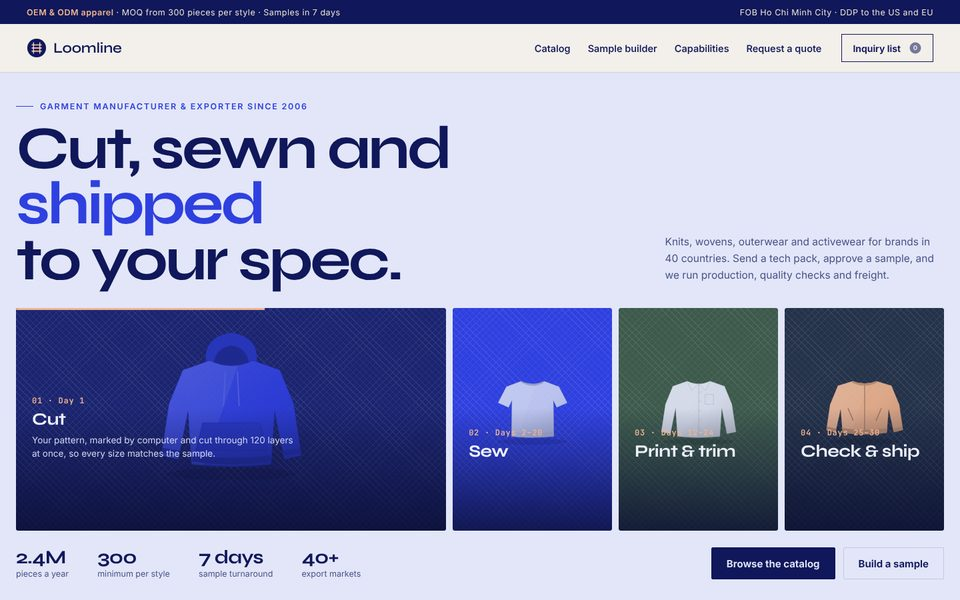
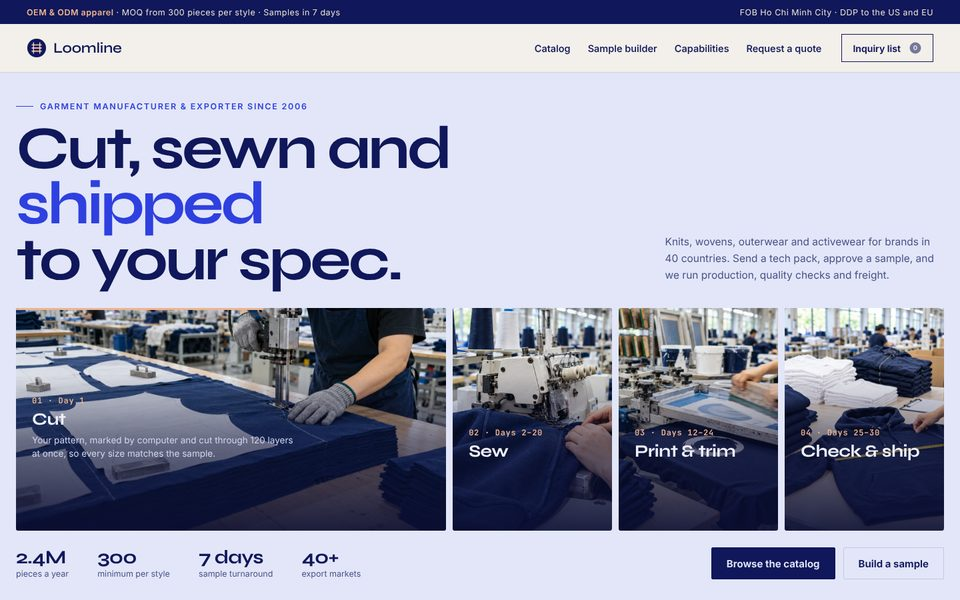
Add photography to the seven new demos
Ferro part and machine (material switch retints the part), Maison Sable hero and
product shots, Atlas ridge, Atelier Nord cover, Nocturne watch, Kiln bag (cut out,
with labels for the other blends), and the four Loomline factory steps.

Claude-Session: https://claude.ai/code/session_011fApqHYVLv6rXDiRbA3PWJ

Changed region(s): [[0.0, 0.51, 1.0, 0.9]]

diff --git a/public/pages/B2.html b/public/pages/B2.html
@@ -14,9 +14,9 @@ body{background:var(--bg);color:var(--ink);font-family:"Manrope V",Arial,sans-se
 .bar{background:var(--ink);color:var(--bg);text-align:center;font-size:11px;letter-spacing:.2em;text-transform:uppercase;padding:9px;position:relative;z-index:3}
 /* hero: one photograph, one line, one bar */
 .hero{position:relative;height:calc(100vh - 32px);min-height:560px;overflow:hidden;padding:0!important;color:var(--ink);isolation:isolate;--ph:radial-gradient(60% 50% at 70% 18%,rgba(255,236,206,.95),transparent 70%),radial-gradient(70% 60% at 20% 90%,rgba(176,148,214,.55),transparent 70%),linear-gradient(180deg,#efe5d8 0%,#e6d8ea 55%,#cdb9df 100%)}
-.hero>img{animation:breathe 22s ease-in-out infinite alternate;z-index:-2}
-@keyframes breathe{from{transform:scale(1.08)}to{transform:scale(1)}}
-.hero::after{content:"";position:absolute;inset:0;z-index:-1;background:linear-gradient(180deg,rgba(243,236,228,.55) 0%,rgba(243,236,228,0) 34%,rgba(243,236,228,0) 62%,rgba(47,31,61,.28) 100%)}
+.hero>img{animation:breathe 22s ease-in-out infinite alternate;z-index:-2;object-position:50% 100%;transform-origin:50% 100%}
+@keyframes breathe{from{transform:scale(1.04)}to{transform:scale(1)}}
+.hero::after{content:"";position:absolute;inset:0;z-index:-1;background:linear-gradient(180deg,rgba(243,236,228,.62) 0%,rgba(243,236,228,.18) 40%,rgba(243,236,228,0) 62%,rgba(47,31,61,.28) 100%)}
 .hero .leaves{position:absolute;inset:0;z-index:-1;opacity:.16;background:radial-gradient(ellipse 9% 3% at 72% 30%,#2f1f3d,transparent),radial-gradient(ellipse 7% 2.4% at 78% 36%,#2f1f3d,transparent),radial-gradient(ellipse 8% 2.6% at 66% 38%,#2f1f3d,transparent),radial-gradient(ellipse 6% 2% at 82% 26%,#2f1f3d,transparent);filter:blur(6px);animation:sway 7s ease-in-out infinite alternate}
 .hero img+.leaves,.hero img:not(.broken)~.leaves{display:none}
 @keyframes sway{to{transform:translate(1.5%,1%) rotate(1deg)}}
@@ -25,9 +25,9 @@ body{background:var(--bg);color:var(--ink);font-family:"Manrope V",Arial,sans-se
 .nav .nr{justify-content:flex-end}
 .nav .bag{border:1px solid rgba(47,31,61,.35);border-radius:99px;padding:10px 18px;background:rgba(243,236,228,.4);backdrop-filter:blur(8px)}
 .logo{font-family:"Cormorant V",serif;font-size:30px;font-weight:500;letter-spacing:.08em}
-.center{position:absolute;left:0;right:0;top:46%;transform:translateY(-58%);text-align:center;padding:0 20px}
+.center{position:absolute;left:0;right:0;top:25%;transform:translateY(-50%);text-align:center;padding:0 20px}
 .center small{font-size:11px;letter-spacing:.32em;text-transform:uppercase;color:var(--clay)}
-.center h1{font-family:"Cormorant V",serif;font-weight:400;font-size:clamp(72px,min(12vw,21vh),210px);line-height:.86;letter-spacing:-.025em;margin:clamp(10px,2vh,18px) 0 clamp(22px,4vh,40px)}
+.center h1{font-family:"Cormorant V",serif;font-weight:400;font-size:clamp(64px,min(10.4vw,17.5vh),184px);line-height:.86;letter-spacing:-.025em;margin:clamp(10px,2vh,18px) 0 clamp(22px,4vh,40px)}
 .center h1 i{color:var(--clay)}
 .center p{font-size:clamp(15px,1.2vw,17px);color:#4b3a5c;line-height:1.6}
 .finder{position:absolute;left:0;right:0;margin:0 auto;bottom:clamp(18px,4.5vh,44px);z-index:3;width:min(940px,calc(100% - 32px));display:grid;grid-template-columns:repeat(3,minmax(0,1fr)) auto;align-items:center;background:rgba(246,240,234,.9);backdrop-filter:blur(14px);border-radius:999px;padding:8px 8px 8px 30px;box-shadow:0 20px 60px rgba(47,31,61,.18)}
@@ -44,7 +44,7 @@ section{padding:clamp(80px,9vw,130px) 0}
 .ritual{display:grid;grid-template-columns:repeat(3,1fr);gap:20px;margin-top:56px}
 .r{border-top:1px solid var(--ink);padding-top:22px}
 .r .vial{height:260px;border-radius:22px;background:var(--bg2);display:grid;place-items:center;margin-bottom:22px}
-.r .vial svg{height:72%}
+.r .vial{height:320px;overflow:hidden}.r .vial img{height:88%;width:auto;max-width:86%;object-fit:contain;mix-blend-mode:multiply}
 .r small{color:var(--clay);font-size:11px;letter-spacing:.2em;text-transform:uppercase}
 .r h3{font-family:"Cormorant V",serif;font-weight:500;font-size:32px;margin:6px 0}
 .r p{color:var(--mut);line-height:1.6}
@@ -53,7 +53,7 @@ section{padding:clamp(80px,9vw,130px) 0}
 .quote p{font-family:"Cormorant V",serif;font-size:clamp(28px,3vw,44px);line-height:1.15}
 .quote ul li{display:flex;justify-content:space-between;padding:14px 0;border-bottom:1px solid rgba(239,230,220,.2)}
 .foot{padding:36px 0;display:flex;justify-content:space-between;color:var(--mut);font-size:13px}
-@media (max-width:900px){.nav .l,.nav .nr a:not(:last-child){display:none}.nav{grid-template-columns:auto 1fr}.nav .nr{justify-self:end}.logo{white-space:nowrap;font-size:26px}.ritual,.quote{grid-template-columns:1fr}.proof{display:none}.finder{grid-template-columns:1fr 1fr;border-radius:26px;padding:16px;gap:12px}.finder label{border-right:0;margin:0;padding:0 0 8px;border-bottom:1px solid var(--line)}.finder label:nth-child(3){display:none}.finder button{grid-column:1/-1}.center{top:40%}}
+@media (max-width:900px){.nav .l,.nav .nr a:not(:last-child){display:none}.nav{grid-template-columns:auto 1fr}.nav .nr{justify-self:end}.logo{white-space:nowrap;font-size:26px}.ritual,.quote{grid-template-columns:1fr}.proof{display:none}.finder{grid-template-columns:1fr 1fr;border-radius:26px;padding:16px;gap:12px}.finder label{border-right:0;margin:0;padding:0 0 8px;border-bottom:1px solid var(--line)}.finder label:nth-child(3){display:none}.finder button{grid-column:1/-1}.center{top:24%}.hero>img{object-position:58% 50%}}
 
 
 
@@ -114,9 +114,9 @@ section{padding:clamp(80px,9vw,130px) 0}
   <section>
     <h2 class="h2">Morning, evening,<br><i>and that’s all.</i></h2>
     <div class="ritual">
-      <article class="r"><div class="vial"><svg viewBox="0 0 70 200"><use href="#tube"/></svg></div><small>Step 01</small><h3>Lait Nettoyant</h3><p>A milky cleanser that leaves skin soft, never tight.</p><div class="price"><span>150 ml</span><span>$28</span></div></article>
-      <article class="r"><div class="vial"><svg viewBox="0 0 80 200"><use href="#drop"/></svg></div><small>Step 02</small><h3>Sérum Ambre</h3><p>Vitamin C and sea buckthorn for an even, bright tone.</p><div class="price"><span>30 ml</span><span>$54</span></div></article>
-      <article class="r"><div class="vial"><svg viewBox="0 0 140 120" style="height:46%"><use href="#jar"/></svg></div><small>Step 03</small><h3>Crème Velours</h3><p>A rich barrier cream that sinks in in seconds.</p><div class="price"><span>50 ml</span><span>$48</span></div></article>
+      <article class="r"><div class="vial"><img src="img/sable-cleanser.webp" alt="Frosted lilac cleanser bottle"></div><small>Step 01</small><h3>Lait Nettoyant</h3><p>A milky cleanser that leaves skin soft, never tight.</p><div class="price"><span>150 ml</span><span>$28</span></div></article>
+      <article class="r"><div class="vial"><img src="img/sable-serum.webp" alt="Serum dropper bottle"></div><small>Step 02</small><h3>Sérum Ambre</h3><p>Vitamin C and sea buckthorn for an even, bright tone.</p><div class="price"><span>30 ml</span><span>$54</span></div></article>
+      <article class="r"><div class="vial"><img src="img/sable-cream.webp" alt="White ceramic cream jar"></div><small>Step 03</small><h3>Crème Velours</h3><p>A rich barrier cream that sinks in in seconds.</p><div class="price"><span>50 ml</span><span>$48</span></div></article>
     </div>
   </section>
   <section style="padding-top:0">

diff --git a/public/pages/R4.html b/public/pages/R4.html
@@ -21,10 +21,17 @@ body{background:var(--cr);color:var(--br);font-family:"Manrope V",Arial,sans-ser
 .poster{position:absolute;left:0;right:0;top:50%;transform:translateY(-54%);z-index:1;text-align:center;font-family:"Bricolage V","Manrope V",sans-serif;font-weight:800;font-stretch:75%;font-variation-settings:"wdth" 75,"opsz" 96;text-transform:uppercase;line-height:.8;letter-spacing:-.035em;color:var(--hfg,var(--br));pointer-events:none;white-space:nowrap;transition:color .6s}
 .poster span{display:block;font-size:min(15vw,26vh)}
 .poster span:last-child{color:var(--hac,var(--tc));transition:color .6s}
-.bagwrap{position:absolute;left:50%;top:50%;z-index:2;height:min(60vh,540px);aspect-ratio:260/340;transform:translate(-50%,-46%)}
+.bagwrap{position:absolute;left:50%;top:50%;z-index:2;height:min(64vh,580px);aspect-ratio:800/1253;transform:translate(-50%,-46%)}
 .bagwrap .bag{position:absolute;inset:0;width:100%;height:100%;transform:rotate(-6deg);filter:drop-shadow(18px 26px 0 rgba(42,23,14,.92));animation:bob 5s ease-in-out infinite alternate;transition:transform .6s cubic-bezier(.2,.8,.2,1)}
 .bagwrap .bag.swap{transform:rotate(8deg) translateY(-30px) scale(.94)}
-.bagwrap img.bag{object-fit:contain}
+.bag{container-type:inline-size}
+.bag .draw,.bag .pic{position:absolute;inset:0;width:100%;height:100%}
+.bag .pic{object-fit:contain;opacity:0;transition:opacity .4s}
+.bag.photo .pic{opacity:1}.bag.photo .draw{display:none}
+.plabel{position:absolute;left:31.1%;top:49.1%;width:61.8%;height:31%;display:none;flex-direction:column;align-items:center;justify-content:center;gap:4cqw;background:var(--lab,#dd5a2c);color:#17100c;box-shadow:inset 0 0 0 1px rgba(0,0,0,.05);background-image:radial-gradient(rgba(255,255,255,.08) 1px,transparent 1px);background-size:3px 3px}
+.plabel b{font:900 14.5cqw/1 "Fraunces V",serif;font-variation-settings:"SOFT" 100;letter-spacing:-.04em}
+.plabel span{font:400 2.6cqw/1.2 "Fraunces V",serif;white-space:nowrap}
+.bag.photo.alt .plabel{display:flex}
 @keyframes bob{to{transform:rotate(-2deg) translateY(-14px)}}
 .badge{position:absolute;right:-22%;top:-4%;width:38%;aspect-ratio:1;z-index:3;animation:spin 18s linear infinite}
 @keyframes spin{to{transform:rotate(360deg)}}
@@ -107,7 +114,8 @@ section{padding:clamp(80px,9vw,130px) 0}
   <div class="wrap"><header class="nav"><a class="logo" href="#">kiln<span>.</span></a><a href="#">Shop</a><a href="#subscribe">Subscriptions</a><a href="#">Cafés</a><a href="#">Wholesale</a><a class="cart" href="#">Bag (2)</a></header></div>
   <h1 class="poster" aria-label="Roasted slow, poured loud."><span data-in>Roasted slow,</span><span data-in style="--d:1">poured loud.</span></h1>
   <div class="bagwrap" aria-hidden="true"><div data-in style="--d:2;position:absolute;inset:0">
-    <svg class="bag" viewBox="0 0 260 340" data-bag>
+    <div class="bag" data-bag>
+    <svg class="draw" viewBox="0 0 260 340">
       <path d="M30 40 L230 40 L250 330 L10 330Z" fill="#c9a074"/>
       <path d="M30 40 L230 40 L226 62 L34 62Z" fill="#b58b5f"/>
       <path d="M42 10 L218 10 L230 40 L30 40Z" fill="#d7b38a"/>
@@ -119,6 +127,9 @@ section{padding:clamp(80px,9vw,130px) 0}
       <text x="130" y="222" text-anchor="middle" font-family="Fraunces V, serif" font-style="italic" font-size="15" fill="#6e3f38" data-t2>jasmine, peach, honey</text>
       <circle cx="130" cy="250" r="9" fill="#f2b33d"/>
     </svg>
+      <img src="img/kiln-bag.webp" alt="" class="pic">
+      <div class="plabel" data-plabel><b>kiln.</b><span data-pt></span></div>
+    </div>
     <svg class="badge" viewBox="0 0 200 200"><defs><path id="c" d="M100 100 m-74 0 a74 74 0 1 1 148 0 a74 74 0 1 1 -148 0"/></defs><circle cx="100" cy="100" r="98" fill="#2a170e"/><text font-family="Manrope V, sans-serif" font-weight="800" font-size="17" letter-spacing="3.4" fill="#f8cfc8"><textPath href="#c">FRESH ROASTED · EVERY TUESDAY · </textPath></text><circle cx="100" cy="100" r="22" fill="#dd5a2c"/></svg>
     <svg class="bean" style="left:-18%;top:16%"><use href="#bean"/></svg>
     <svg class="bean" style="left:104%;top:66%;animation-delay:-2s"><use href="#bean"/></svg>
@@ -221,18 +232,24 @@ section{padding:clamp(80px,9vw,130px) 0}
 
 (function () {
   var B = [
-    { bg: "#f8cfc8", fg: "#2a170e", ac: "#dd5a2c", lab: "#f8cfc8", t1: "NO. 7 · ETHIOPIA", t2: "jasmine, peach, honey", btn: "Shop No. 7 · $19 →" },
-    { bg: "#dd5a2c", fg: "#2a170e", ac: "#f8cfc8", lab: "#dd5a2c", t1: "HOUSE FIRE · BLEND", t2: "cocoa, almond, molasses", btn: "Shop House Fire · $17 →" },
-    { bg: "#f2b33d", fg: "#2a170e", ac: "#f8f1e4", lab: "#f2b33d", t1: "NIGHT SHIFT · DECAF", t2: "toffee, plum, brown sugar", btn: "Shop Night Shift · $18 →" }
+    { bg: "#f8cfc8", fg: "#2a170e", ac: "#dd5a2c", lab: "#f8cfc8", t1: "NO. 7 · ETHIOPIA", t2: "jasmine, peach, honey", btn: "Shop No. 7 · $19 →", plab: "#d9878a", pline: "No. 7 · Ethiopia · jasmine, peach, honey" },
+    { bg: "#dd5a2c", fg: "#2a170e", ac: "#f8cfc8", lab: "#dd5a2c", t1: "HOUSE FIRE · BLEND", t2: "cocoa, almond, molasses", btn: "Shop House Fire · $17 →", plab: "#f2b33d", pline: "House Fire · blend · cocoa, almond, molasses" },
+    { bg: "#f2b33d", fg: "#2a170e", ac: "#f8f1e4", lab: "#f2b33d", t1: "NIGHT SHIFT · DECAF", t2: "toffee, plum, brown sugar", btn: "Shop Night Shift · $18 →", plab: "#9cc0a0", pline: "Night Shift · decaf · toffee, plum, brown sugar" }
   ];
-  var hero = document.querySelector(".hero"), bag = hero.querySelector("[data-bag]");
+  var hero = document.querySelector(".hero"), bag = hero.querySelector("[data-bag]"), pic = bag.querySelector(".pic");
+  var ok = function () { if (pic.naturalWidth) bag.classList.add("photo"); }; if (pic.complete) ok(); else pic.addEventListener("load", ok);
   hero.querySelector("[data-picks]").addEventListener("click", function (e) {
     var b = e.target.closest("[data-k]"); if (!b) return;
     var k = B[+b.dataset.k];
     hero.querySelectorAll("[data-k]").forEach(function (x) { x.classList.toggle("on", x === b); });
     hero.style.setProperty("--hbg", k.bg); hero.style.setProperty("--hfg", k.fg); hero.style.setProperty("--hac", k.ac);
     bag.classList.add("swap");
-    setTimeout(function () { bag.querySelector("[data-lab]").setAttribute("fill", k.lab === k.bg ? "#f8f1e4" : k.lab); bag.querySelector("[data-t1]").textContent = k.t1; bag.querySelector("[data-t2]").textContent = k.t2; bag.classList.remove("swap"); }, 300);
+    setTimeout(function () {
+      bag.querySelector("[data-lab]").setAttribute("fill", k.lab === k.bg ? "#f8f1e4" : k.lab); bag.querySelector("[data-t1]").textContent = k.t1; bag.querySelector("[data-t2]").textContent = k.t2;
+      // the photo already carries the No. 7 label; other blends get their own label laid over it
+      bag.classList.toggle("alt", b.dataset.k !== "0"); bag.style.setProperty("--lab", k.plab); bag.querySelector("[data-pt]").textContent = k.pline;
+      bag.classList.remove("swap");
+    }, 300);
     hero.querySelector("[data-shopbtn]").textContent = k.btn;
   });
 })();

diff --git a/public/pages/L3.html b/public/pages/L3.html
@@ -56,7 +56,13 @@ body{font-size:15px;background:var(--bg)}
 .stage{position:relative;overflow:hidden;background:radial-gradient(60% 70% at 50% 45%,rgba(255,255,255,.05),transparent 70%)}
 .stage .ph{position:absolute;inset:0;background:transparent}
 .stage .ph svg{position:absolute;left:54%;top:58%;width:min(60%,330px);transform:translate(-50%,-50%)}
-.stage .ph img{object-fit:contain;transform:scale(1.25)}
+.stage .ph img{object-fit:cover;object-position:50% 52%;transform:scale(1.04);-webkit-mask:radial-gradient(60% 62% at 50% 54%,#000 55%,transparent 100%);mask:radial-gradient(60% 62% at 50% 54%,#000 55%,transparent 100%);transition:filter .5s}
+.stage .ph img[data-mat="Stainless 304"]{filter:saturate(.5) contrast(1.12) brightness(.9)}
+.stage .ph img[data-mat="Brass C360"]{filter:sepia(.85) saturate(2.1) hue-rotate(-10deg) brightness(.97)}
+.stage .ph img[data-mat="POM (Delrin)"]{filter:grayscale(1) brightness(1.55) contrast(.72)}
+.stage .ph img[data-mat="Titanium Gr5"]{filter:sepia(.18) brightness(.74) contrast(1.18)}
+.endbg{position:absolute;inset:0;z-index:-2;opacity:.42;--ph:#0b0c0e}
+.endbg::after{content:"";position:absolute;inset:0;background:linear-gradient(180deg,var(--bg) 0%,rgba(8,9,11,.55) 40%,rgba(8,9,11,.6) 70%,var(--bg) 100%)}
 .stage .meas{position:absolute;left:14px;top:12px;font:500 11.5px/1.7 var(--mono);color:#7d838c}
 .stage .meas b{color:#e8ebef;font-weight:500}
 .stage .chip{position:absolute;padding:6px 10px;border:1px solid rgba(255,106,19,.45);border-radius:8px;font:500 11.5px/1 var(--mono);color:#ffc9a6;background:rgba(255,106,19,.08)}
@@ -91,7 +97,7 @@ body{font-size:15px;background:var(--bg)}
 .mini{display:grid;grid-template-columns:1fr 1fr;gap:10px}
 .mini div{padding:16px;border:1px solid var(--line);border-radius:14px;font:500 12px/1.5 var(--mono);color:var(--muted);background:rgba(255,255,255,.02)}
 .mini b{display:block;color:var(--fg);font:600 24px/1.1 var(--head);letter-spacing:-.02em;margin-bottom:4px}
-.end{text-align:center;padding:clamp(80px,10vw,140px) 0;position:relative;overflow:hidden}
+.end{text-align:center;padding:clamp(100px,12vw,180px) 0;position:relative;overflow:hidden;isolation:isolate}
 .end h2{font:600 clamp(40px,5.4vw,80px)/.98 var(--head);letter-spacing:-.045em;max-width:12em;margin:0 auto}
 .end p{color:var(--muted);margin:16px auto 28px;max-width:30em;line-height:1.6}
 .end::before{content:"";position:absolute;left:50%;top:60%;width:700px;height:300px;transform:translate(-50%,-50%);background:radial-gradient(closest-side,rgba(255,106,19,.3),transparent);filter:blur(20px);z-index:-1}
@@ -189,7 +195,7 @@ body{font-size:15px;background:var(--bg)}
     <div class="sec-h"><h2>Standard parts, ready to order.</h2><a href="#/shop" style="border-bottom:1px solid">All standard parts</a></div>
     <div class="sh-grid" data-products="featured" data-limit="4"></div>
   </div></section>
-  <section class="end"><div class="wrap"><p class="tag">// Engineers reply within 4 hours</p><h2 style="margin-top:16px">Send a drawing. Get a part.</h2><p>Every request is checked by a manufacturing engineer before it reaches a machine, so the price you see is the price you pay.</p><a class="sh-btn" href="#/instant-quote">Start an instant quote</a></div></section>
+  <section class="end"><div class="endbg ph"><img src="img/ferro-machine.webp" alt="A CNC mill cutting an aluminum block under coolant spray" loading="lazy"></div><div class="wrap"><p class="tag">// Engineers reply within 4 hours</p><h2 style="margin-top:16px">Send a drawing. Get a part.</h2><p>Every request is checked by a manufacturing engineer before it reaches a machine, so the price you see is the price you pay.</p><a class="sh-btn" href="#/instant-quote">Start an instant quote</a></div></section>
 </section>
 <section data-view="shop" hidden></section>
 <section data-view="p" hidden></section>
@@ -293,6 +299,7 @@ body{font-size:15px;background:var(--bg)}
     document.querySelector("[data-hship]").textContent = ship;
     document.querySelector("[data-hbars]").innerHTML = ps.map(function (p, i) { return '<span class="' + (qs[i] === hq ? "on" : "") + '" style="height:' + Math.max(8, p / mx * 100).toFixed(0) + '%" title="' + qs[i] + ' pcs"></span>'; }).join("");
     Array.prototype.forEach.call(document.querySelectorAll("[data-mats] button"), function (b) { b.classList.toggle("on", b.dataset.m === hm); });
+    if (img0) img0.setAttribute("data-mat", hm);
     Array.prototype.forEach.call(document.querySelectorAll("[data-hqty] button"), function (b) { b.classList.toggle("on", +b.dataset.v === hq); });
     var svg = heroArt.querySelector("svg"); if (svg && svg.style.display !== "none") svg.outerHTML = partSVG("hero", MAT[hm].hex, { noShadow: true });
   }

diff --git a/public/pages/T2.html b/public/pages/T2.html
@@ -33,8 +33,8 @@ body{background:var(--bg);color:var(--tx);font-family:"Manrope V",Arial,sans-ser
 .btn{display:inline-flex;align-items:center;gap:14px;margin-top:clamp(12px,2.4vh,26px);font-size:11px;letter-spacing:.28em;text-transform:uppercase;color:var(--tx)}
 .btn::after{content:"";width:56px;height:1px;background:var(--g)}
 .num{position:absolute;left:50%;bottom:-8vh;transform:translateX(-50%);font-family:"Cormorant V",serif;font-size:min(30vw,52vh);line-height:.8;color:rgba(239,217,167,.03);font-weight:300;pointer-events:none;white-space:nowrap}
-.wphoto{position:absolute;inset:-24% -6%;z-index:2;opacity:0;transition:opacity .8s;-webkit-mask:linear-gradient(180deg,transparent 0,#000 22%,#000 78%,transparent 100%);mask:linear-gradient(180deg,transparent 0,#000 22%,#000 78%,transparent 100%)}
-.wphoto img{width:100%;height:100%;object-fit:contain}
+.wphoto{position:absolute;left:-18.4%;top:-17.2%;width:144.1%;height:144.1%;z-index:2;opacity:0;transition:opacity .8s;mix-blend-mode:lighten;-webkit-mask:radial-gradient(closest-side at 47.45% 46.65%,#000 64%,transparent 98%);mask:radial-gradient(closest-side at 47.45% 46.65%,#000 64%,transparent 98%)}
+.wphoto img{display:block;width:100%;height:100%;object-fit:cover}
 .watch.photo .wphoto{opacity:1}
 .watch.photo>span,.watch.photo>svg{visibility:hidden}
 /* the watch */

diff --git a/public/pages/L1.html b/public/pages/L1.html
@@ -39,9 +39,9 @@ body{font-size:15px}
 .step .ph img{transition:transform 1.2s cubic-bezier(.2,.8,.2,1);transform:scale(1.06)}
 .step.on .ph img{transform:scale(1)}
 .step .g{position:absolute;left:50%;top:44%;width:min(58%,260px);transform:translate(-50%,-50%);opacity:.9}
-.step .ph img:not(.broken)~.g{display:none}
+.step .ph img:not(.broken)~.g,.step .ph img:not(.broken)~.weave{display:none}
 .step .weave{position:absolute;inset:0;opacity:.18;background:repeating-linear-gradient(45deg,rgba(255,255,255,.5) 0 1px,transparent 1px 7px),repeating-linear-gradient(-45deg,rgba(255,255,255,.35) 0 1px,transparent 1px 7px)}
-.step::after{content:"";position:absolute;inset:0;background:linear-gradient(180deg,rgba(10,14,50,0) 45%,rgba(10,14,50,.82) 100%)}
+.step::after{content:"";position:absolute;inset:0;background:linear-gradient(180deg,rgba(10,14,50,0) 30%,rgba(10,14,50,.55) 60%,rgba(10,14,50,.92) 100%)}
 .step .cap{position:absolute;left:18px;right:18px;bottom:16px;z-index:1;color:#eef0fb}
 .step .cap span{font:600 12px/1 "JetBrains Mono V",monospace;letter-spacing:.06em;color:#f0b48f}
 .step .cap b{display:block;font:700 clamp(20px,1.8vw,28px)/1.05 "Syne V",sans-serif;letter-spacing:-.02em;margin:6px 0 0;white-space:nowrap}
